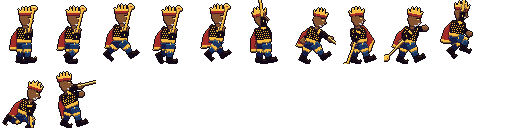
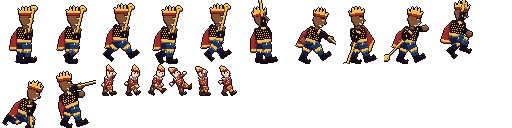
Nizhalattam: the Puppet King's role, once he is home
The eighth role, chosen at the box once the King is home. Wide swings
of the sceptre; X summons two shadow soldiers who fight beside the
Jester for 8 seconds, and every shadow torn makes the next summons come
sooner; coming in, his cape turns blows from the front aside and throws
back the shadows in front.

Changed region(s): [[0.1875, 0.5, 0.4688, 0.75]]

diff --git a/tests/test_examples.py b/tests/test_examples.py
@@ -1413,6 +1413,30 @@ def main():
         t.check("nizhalattam: as the Queen, he mends while the lamp shield holds",
                 int(got.get("mends", ["0"])[0]) > 80, f"{got} {r.err[-300:]}")
 
+        # The Puppet King's role, once he is home: X summons two shadow
+        # soldiers that go for the shadows about him; each shadow torn makes
+        # the next summons sooner; coming in, the cape turns blows from the front
+        r, got = story('rooms.enter("s2.ooru", "s1.ooru", body) fight.wear({ "king" }) at(12, 208)', "if f == 10 then i.skill = true end",
+                       'local function dummies() local n = 0 for _, s in ipairs(shadows.list) do if s.on and s.kind == "dummy" then n = n + 1 end end return n end '
+                       'if f == 12 then dbg("summoned", fight.ROLES.king.summoned(), dummies()) end '
+                       'if f == 500 then dbg("later", fight.ROLES.king.summoned(), dummies(), fight.cooldown()) end '
+                       'if f == 600 then dbg("gone", fight.ROLES.king.summoned()) end', frames=605)
+        later = got.get("later", ["0", "3", "999"])
+        t.check("nizhalattam: as the King, X summons two shadow soldiers that tear the shadows near; each torn shortens the wait",
+                got.get("summoned") == ["2", "3"] and later[0] == "2" and int(later[1]) < 3
+                # (the wait stands still while the world does, a few frames a blow)
+                and int(later[2]) < 900 - 490 - 90 * (3 - int(later[1])) + 40 and got.get("gone") == ["0"], f"{got} {r.err[-300:]}")
+        r, got = story('rooms.enter("s3.ooru", "s2.ooru", body) fight.wear({ "komali", "king" }) at(8, 208)', "if f == 10 then i.swap = 1 end",
+                       'if f == 14 then k.struck = 0 local front = body.hurt(10, k.x + k.w / 2 + k.face * 20) k.struck = 0 '
+                       '  dbg("cape", fight.role().name, tostring(front), tostring(body.hurt(10, k.x + k.w / 2 - k.face * 20))) end', frames=16)
+        t.check("nizhalattam: as the King, coming in his cape turns blows from the front aside, not from behind",
+                got.get("cape") == ["King", "false", "10"], f"{got} {r.err[-300:]}")
+        r, got = story('run.data.king, run.data.repairs.r_slot, run.data.chosen = true, 1, { "king" } run.start(body, { "forest" }, "palace") '
+                       'local pk = rooms.want("pick") pk.open("box") pk.update({}, body)', "",
+                       'if f == 3 then dbg("carried", #fight.carried, fight.carried[2] and fight.carried[2].name) end', frames=4)
+        t.check("nizhalattam: once the King is home his role can be chosen at the box, and is carried from the start",
+                got.get("carried") == ["2", "King"], f"{got} {r.err[-300:]}")
+
         # The Puppet King: act one calls in soldiers, and his cape turns blows back
         r, got = story('rooms.enter("p7.ooru", "pboss.ooru", body) at(20, 208)', "",
                        'local b = shadows.boss if f == 2 then b.shown.summon, b.move, b.state, b.t = true, "summon", "wind", 1 end '
@@ -1823,7 +1847,7 @@ def main():
                 float(got.get(k, ["999"])[0]) for k in ("hub", "boss", "forest", "vil", "sea", "aatta", "field", "elephant",
                                                         "market", "minister", "palace", "queen", "king", "after"))
         t.check("nizhalattam: the Lua heap stays within its budget in every story, and a story's code is let go after it",
-                hub < 130 and bossroom < 132 and forestroom < 136 and vilroom < 141 and searoom < 152 and aattaroom < 147
+                hub < 131 and bossroom < 133 and forestroom < 137 and vilroom < 141 and searoom < 152 and aattaroom < 147
                 and fieldroom < 149 and elephantroom < 147 and marketroom < 147 and ministerroom < 152
                 and palaceroom < 156 and queenroom < 153 and kingroom < 160 and after < forestroom - 4, got)
 
